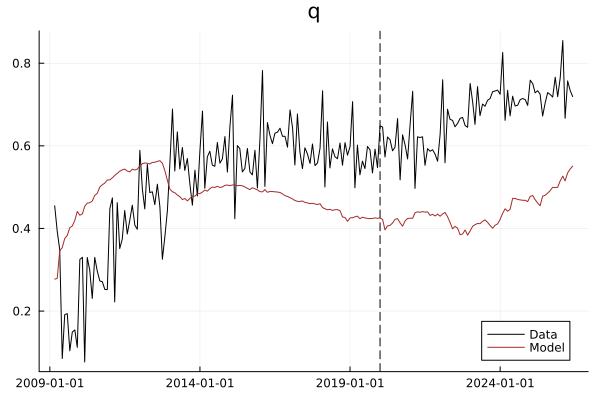
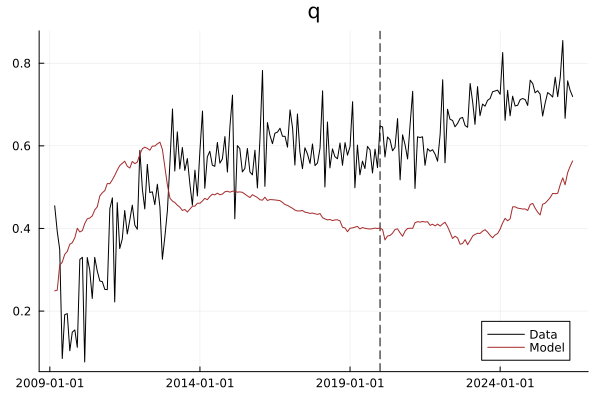
remove \beta and add \rho to estimand

diff --git a/table/parameters.tex b/table/parameters.tex
@@ -6,7 +6,7 @@
         \multicolumn{4}{l}{\textit{Panel A: External Calibration}} \\
         \addlinespace
         $b$ & Birth rate & $0.00462$ & Total fertility rate \\
-        $m$ & Mortality rate & $0.06$ & Median lifespan \\
+        $m$ & Mortality rate & $0.06$ &  \\
         $T_w$ & Working age & $25$ &  \\
         $T_r$ & Retirement age & $61$ & Standard retirement age \\
         $T_m$ & Age of mortality exposure & $60$ &  \\
@@ -19,9 +19,9 @@
         \midrule
         \multicolumn{4}{l}{\textit{Panel B: Internal Calibration}} \\
         \addlinespace
-        $\sigma$ & Pension fund volatility & $1.855$ & $\text{SD}(\frac{\hat{B}_{t+\Delta}-\hat{B}_t-\mu_B(\hat{B}_t,\hat{Q}_t,\theta)\Delta}{\hat{B}_t\sqrt{\Delta}})=\sigma$ \\
-        $\alpha$ & Preference for lump-sum scheme & $-17.43$ & $\E\sbrc{(q - q(\hat{B}_t, \hat{Q}_t, \theta))^2}$ \\
-        $\rho$ & Subjective discount rate & $0.02$ & $\E\sbrc{(q - q(\hat{B}_t, \hat{Q}_t, \theta))^2}$ \\
+        $\sigma$ & Pension fund volatility & $0.1002$ & $\text{SD}(\frac{\hat{B}_{t+\Delta}-\hat{B}_t-\mu_B(\hat{B}_t,\hat{Q}_t,\theta)\Delta}{\hat{B}_t\sqrt{\Delta}})=\sigma$ \\
+        $\alpha$ & Preference for lump-sum scheme & $-1.205$ & $\E\sbrc{(q - q(\hat{B}_t, \hat{Q}_t, \theta))^2}$ \\
+        $\rho$ & Subjective discount rate & $-0.0599$ & $\E\sbrc{(q - q(\hat{B}_t, \hat{Q}_t, \theta))^2}$ \\
         \bottomrule
     \end{tabularx}
 

diff --git a/table/parameters_B.tex b/table/parameters_B.tex
@@ -1,16 +1,15 @@
 \begin{threeparttable}
-    \begin{tabular}{clcl}
+    \begin{tabularx}{\linewidth}{@{}c>{\raggedright\arraybackslash}Xc>{\raggedright\arraybackslash}X@{}}
         \toprule
         Parameter & Description & Value & Target \\
         \midrule
         \multicolumn{4}{l}{\textit{Panel B: Internal Calibration}} \\
         \addlinespace
-        $r$ & Pension fund return rate & $0.2686$ & $\E\sbrc{\frac{\hat{B}_{t+\Delta}-\hat{B}_t}{B_t}-\mu_{B}(\hat{B}_t, \hat{Q}_t, \theta)\Delta} = 0$ \\
-        $\sigma$ & Pension fund volatility & $1.855$ & $\text{SD}(\frac{\hat{B}_{t+\Delta}-\hat{B}_t}{B_t\sqrt{\Delta}}) = \sigma$ \\
-        $\alpha$ & Preference for lump-sum scheme & $-17.43$ & $\E\sbrc{(q - q(\hat{B}_t, \hat{Q}_t, \theta))^2}$ \\
-        $\beta$ & Sensitivity to default risk & $0.6663$ & $\E\sbrc{(q - q(\hat{B}_t, \hat{Q}_t, \theta))^2}$ \\
+        $\sigma$ & Pension fund volatility & $0.1002$ & $\text{SD}(\frac{\hat{B}_{t+\Delta}-\hat{B}_t-\mu_B(\hat{B}_t,\hat{Q}_t,\theta)\Delta}{\hat{B}_t\sqrt{\Delta}})=\sigma$ \\
+        $\alpha$ & Preference for lump-sum scheme & $-1.205$ & $\E\sbrc{(q - q(\hat{B}_t, \hat{Q}_t, \theta))^2}$ \\
+        $\rho$ & Subjective discount rate & $-0.0599$ & $\E\sbrc{(q - q(\hat{B}_t, \hat{Q}_t, \theta))^2}$ \\
         \bottomrule
-    \end{tabular}
+    \end{tabularx}
 
     \begin{tablenotes}[flushleft]
         \footnotesize

diff --git a/table/parameters_A.tex b/table/parameters_A.tex
@@ -1,22 +1,22 @@
 \begin{threeparttable}
-    \begin{tabular}{clcl}
+    \begin{tabularx}{\linewidth}{@{}c>{\raggedright\arraybackslash}Xc>{\raggedright\arraybackslash}X@{}}
         \toprule
         Parameter & Description & Value & Target \\
         \midrule
         \multicolumn{4}{l}{\textit{Panel A: External Calibration}} \\
         \addlinespace
         $b$ & Birth rate & $0.00462$ & Total fertility rate \\
-        $m$ & Mortality rate & $0.06$ & Median lifespan \\
+        $m$ & Mortality rate & $0.06$ &  \\
         $T_w$ & Working age & $25$ &  \\
         $T_r$ & Retirement age & $61$ & Standard retirement age \\
         $T_m$ & Age of mortality exposure & $60$ &  \\
-        $\rho$ & Subjective discount rate & $0.02$ & Interest rate \\
+        $r$ & Pension fund return rate & $0.057$ & Mean annualized pension fund return \\
         $\tau$ & Pension tax & $0.075$ & Pension tax \\
         $y$ & Income & $5.268$ & Highest monthly insured salary \\
         $\ell$ & Lump-sum pension & $19.75$ & Transfer based on 30 years of working \\
         $p$ & Monthly pension & $2.449$ & Pension based on 30 years of working \\
         \bottomrule
-    \end{tabular}
+    \end{tabularx}
 
     \begin{tablenotes}[flushleft]
         \footnotesize
